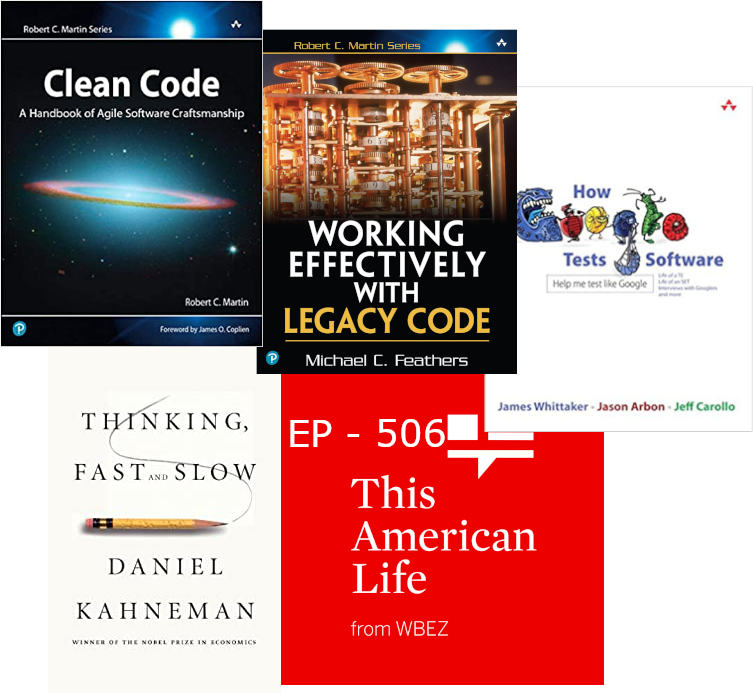
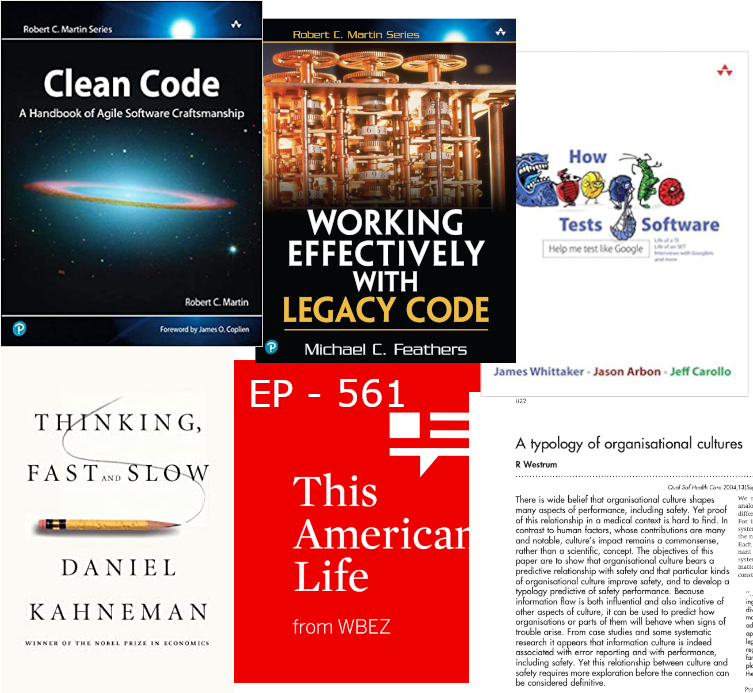
Update introduction

Changed region(s): [[0.0305, 0.0, 1.0, 1.0], [0.9469, 0.0909, 0.9774, 0.1818]]

diff --git a/introduction/introduction.md b/introduction/introduction.md
@@ -57,9 +57,9 @@ just ask and I can clarify.
 * Career advocacy
 
 
-## Things I am not Good at (Yet)
+## Things I am not Good at
 * Praise
-* Social stuff - Especially now
+* Planning Social Events - Especially now
 * A "How can I help you" approach
 
 Note: I'm bad at praise because things that are working are boring to me so I tend to focus in on
@@ -88,11 +88,10 @@ Note: Image by <a href="https://pixabay.com/users/stux-12364/?utm_source=link-at
 
 ## Principals
 * We are one team
-* You are not typists
 * You are all adults
+* Long term investments pay off
 * Time is the most valuable asset
-* I am not the smartest person here
-* I will trade short term loss for long term gain
+* Software Engineering is a creative endeavor
 
 Note: We are one team we support each other, we have a shared vision of success and we help each
 other grow. 
@@ -115,13 +114,19 @@ and companies is a sense of permanent short-termism. I make an effort to recogni
 trade-offs when appropriate. Sometimes these trade-offs involve some short term pain.
 
 
+## Expectations you should have of me
+* I am here to support you
+* I will ask challenging questions
+* I will support your career growth
+* I am accountable to my commitments
+
+
 ## Expectations I have of you
-* You are the first owner of your career
-* You are accountable to your commitments
-* Escalate when you get stuck
-* You are the expert
-* Act as a professional
+* Own your career
 * Operate as a team
+* Be a professional
+* Escalate when you get stuck
+* Be accountable to your commitments
 
 Note:
 * You own your career. If you are not getting what you want out of your time here at Plaid you
@@ -138,13 +143,6 @@ context.
 * Act as a professional. Treat your coworkers and me with respect. Come to work every day. Not
   everything will be fun.
 * Operate as a team. We will support each others growth and success.
-
-
-## Expectations you should have of me
-* I will support your career growth
-* I am accountable to my commitments
-* I will ask challenging questions
-* I am here to support you
 
 
 
@@ -203,7 +201,11 @@ you to take a look at them but I am going to focus on just one today.
 
 ## On Engineering
 ![Engineering Books](images/engineering_books.png)
-<!-- .element: style="width: 60%; background: none" -->
+<!-- .element: style="width: 50%; background: none; margin: 0" -->
+<hr/>
+[A Typology of Organisational Culture](https://www.ncbi.nlm.nih.gov/pmc/articles/PMC1765804/pdf/v013p0ii22.pdf)<!-- .element style="font-size: small; margin: none" -->
+&#x2022;
+[TAL - 561 - NUMMI](https://www.thisamericanlife.org/561/nummi-2015)<!-- .element style="font-size: small; margin: none" -->
 
 
 ## On Life
